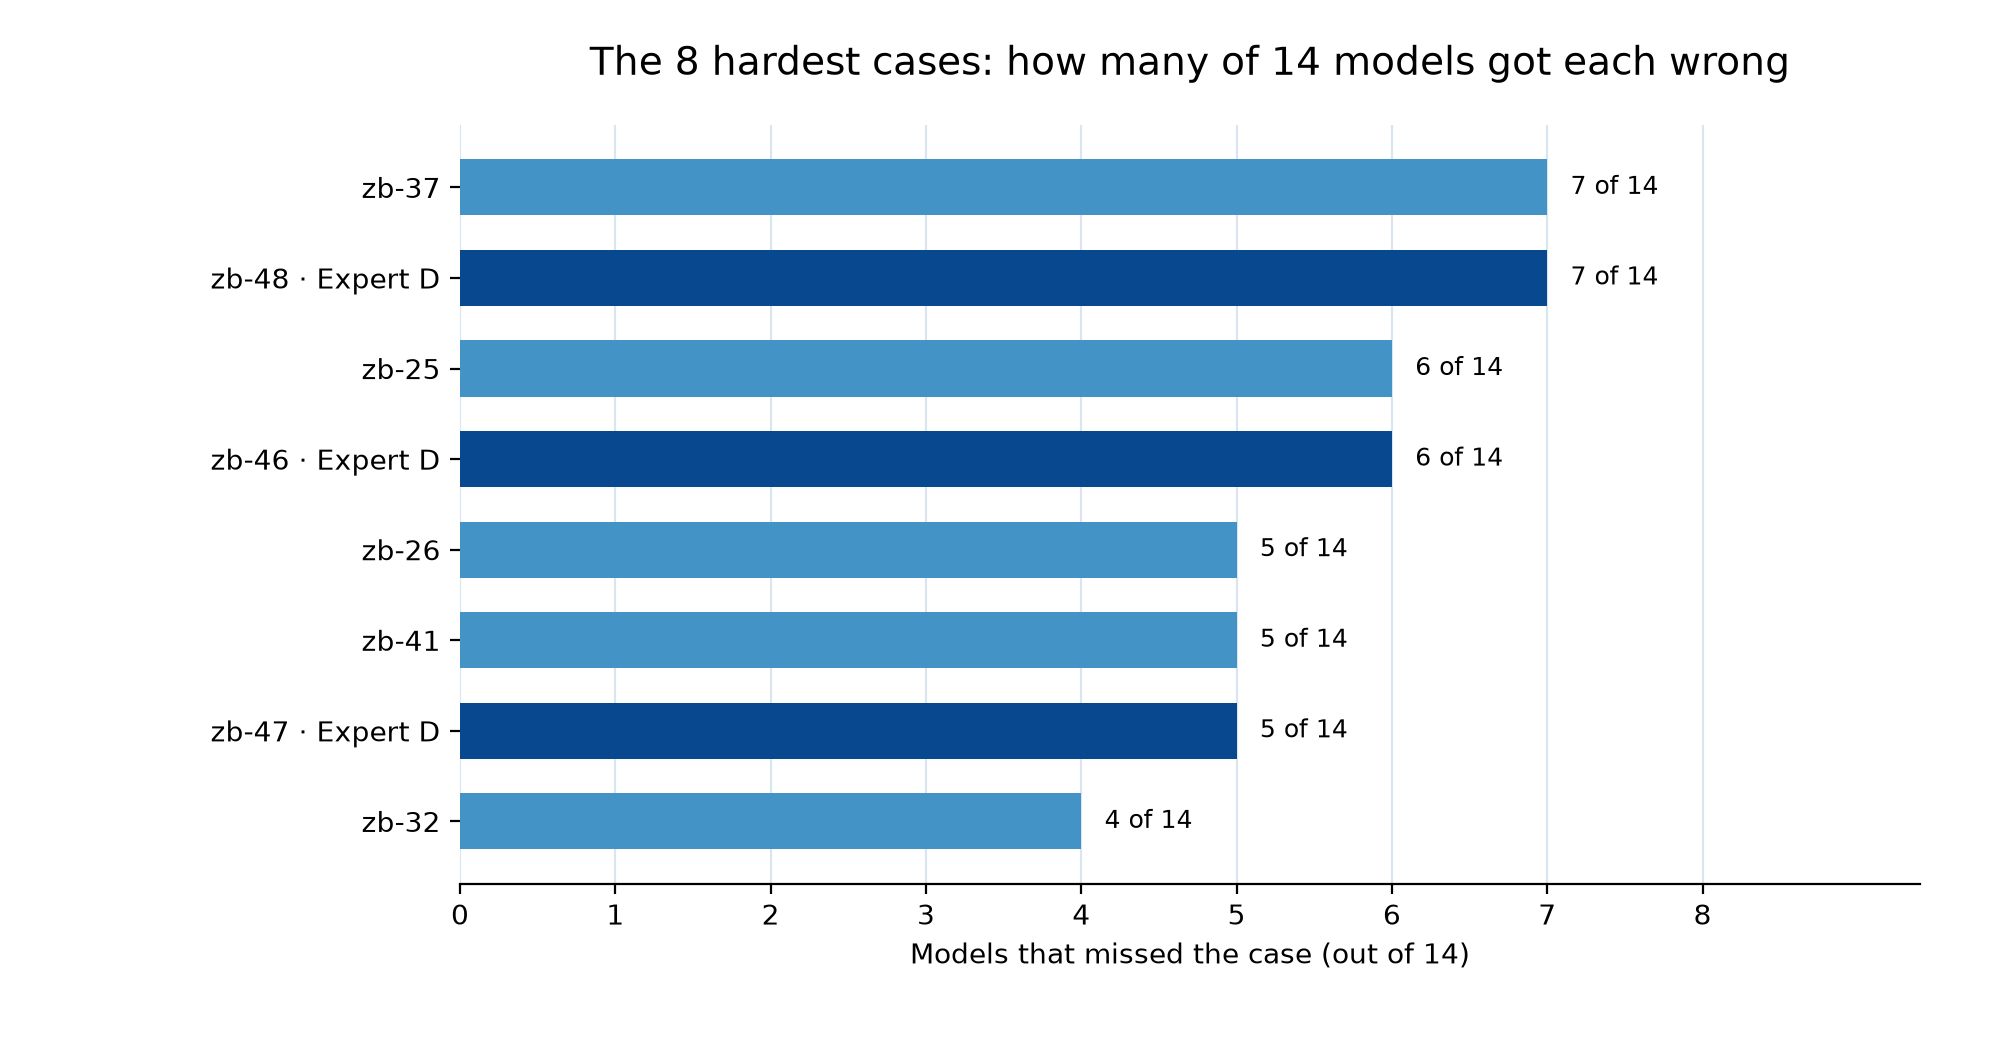
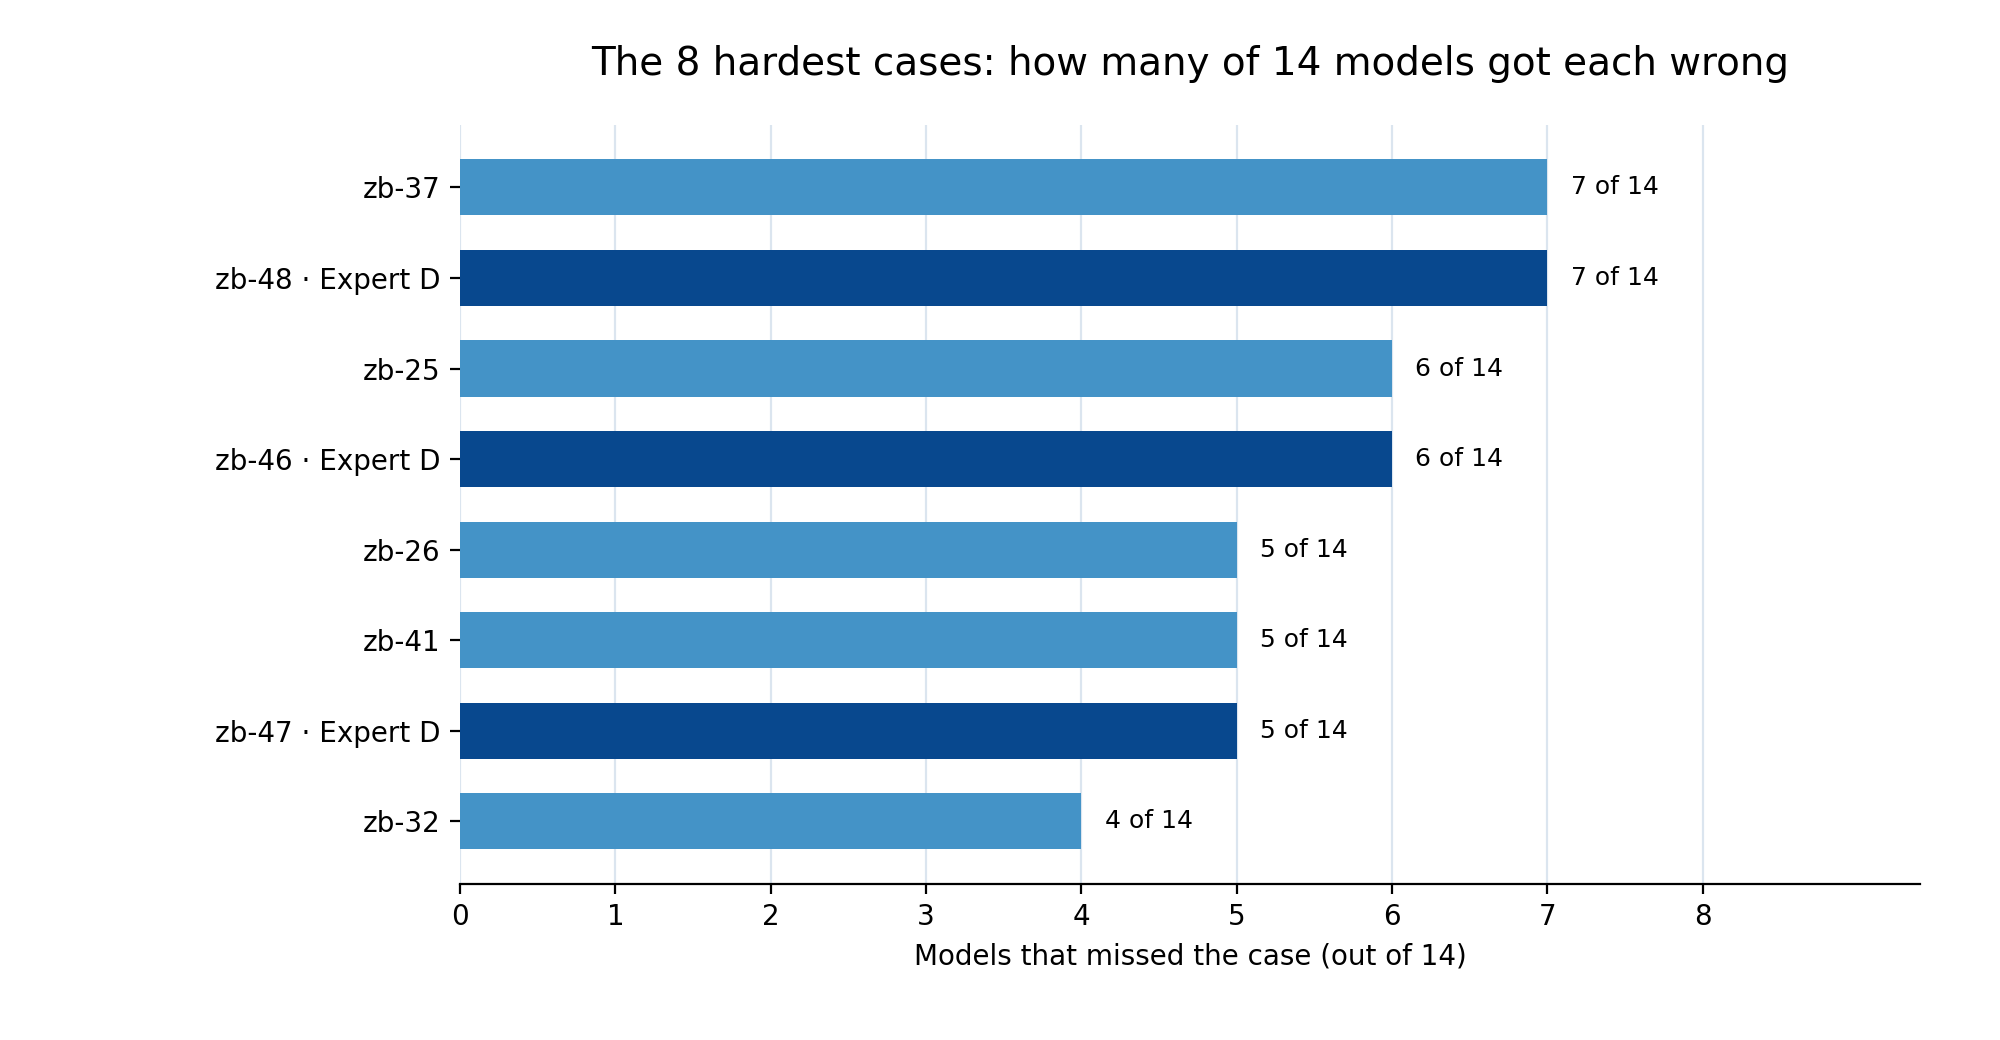
Add verified article cover and validate chart counts

diff --git a/charts/generate_charts.py b/charts/generate_charts.py
@@ -1,5 +1,5 @@
 #!/usr/bin/env python3
-"""Generate the three ZombieBench post charts from saved run results.
+"""Generate the ZombieBench post charts and cover from saved run results.
 
 Requires matplotlib. The script validates the expected run and miss counts
 before writing any images.
@@ -7,6 +7,7 @@ before writing any images.
 
 import json
 import re
+import sys
 from collections import Counter
 from pathlib import Path
 
@@ -18,6 +19,8 @@ import numpy as np
 
 
 ROOT = Path(__file__).resolve().parents[1]
+sys.path.insert(0, str(ROOT))
+from analyze_results import main as analyze_results
 RESULTS = ROOT / "results" / "2026-10-06-kaggle-48-cases.json"
 CASES = ROOT / "cases.json"
 OUT = ROOT / "charts"
@@ -80,6 +83,11 @@ def classify_miss(miss, case_histories):
 
 
 def load_and_validate():
+    summary = analyze_results()
+    if (summary["models"], summary["attempts"], summary["correct"], summary["misses"]) != (14, 672, 592, 80):
+        raise ValueError("analyze_results.py totals differ from the approved counts; stopping.")
+    if summary["miss_types"] != EXPECTED_MISS_TYPES or summary["hardest"] != EXPECTED_HARDEST:
+        raise ValueError("analyze_results.py miss counts differ from the approved counts; stopping.")
     with RESULTS.open(encoding="utf-8") as file:
         results = json.load(file)
     with CASES.open(encoding="utf-8") as file:
@@ -91,6 +99,7 @@ def load_and_validate():
         for case in cases
     }
     runs = [run for run in results["runs"] if run.get("status") == "completed"]
+    runs.sort(key=lambda run: list(MODEL_LABELS).index(run["model"]))
     if len(runs) != 14 or len({run["model"] for run in runs}) != 14:
         raise ValueError(f"Expected 14 distinct completed model runs, found {len(runs)}.")
     if set(MODEL_LABELS) != {run["model"] for run in runs}:
@@ -200,7 +209,7 @@ def make_miss_types(miss_types, total_attempts, total_correct):
     ax.invert_yaxis()
     ax.set_xlim(0, max(values) * 1.22)
     ax.set_xlabel("Number of wrong outputs")
-    ax.set_title("All 80 misses across 14 models: most were false zombies", fontsize=14, pad=34)
+    fig.suptitle("All 80 misses across 14 models: most were false zombies", fontsize=14, y=0.95)
     ax.text(
         0.5, 1.025,
         f"80 misses · {total_attempts:,} attempts · {total_correct:,} correct",
@@ -257,10 +266,22 @@ def main():
     make_heatmap(runs, case_denominators)
     make_miss_types(miss_types, total_attempts, total_correct)
     make_hardest_cases(case_info, missed_cases)
+    make_cover(miss_types, len(all_misses))
     print("Validated: 14 runs, 672 attempts, 592 correct, 80 misses")
     print("Miss categories:", dict(miss_types))
     print("Hardest cases:", sorted(missed_cases.items(), key=lambda item: (-item[1], item[0]))[:8])
-    print("Wrote three 200 dpi PNG charts to charts/.")
+    print("Wrote three 200 dpi PNG charts and a 1000x420 cover to charts/.")
+
+
+def make_cover(miss_types, total_misses):
+    fig = plt.figure(figsize=(5, 2.1), dpi=200, facecolor="white")
+    fig.text(0.07, 0.73, "ZombieBench", fontsize=29, weight="bold", color="#08306b")
+    fig.text(0.07, 0.42,
+             f"{miss_types['False Zombies']} of {total_misses} misses were false zombies:",
+             fontsize=13, weight="bold", color="#08519c")
+    fig.text(0.07, 0.27, "a new bug called an old one", fontsize=14, color="#2171b5")
+    fig.savefig(OUT / "cover.png", dpi=200, facecolor="white")
+    plt.close(fig)
 
 
 if __name__ == "__main__":

diff --git a/analyze_results.py b/analyze_results.py
@@ -145,6 +145,19 @@ def main():
     print(f"  API errors in completed runs: {api_errors}")
     print(f"  Expert D misses: {expert_d_misses}/{expert_d_attempts} attempts")
 
+    hardest = sorted(Counter(miss["case"] for miss in scored_misses).items(),
+                     key=lambda item: (-item[1], item[0]))[:8]
+    print("\nHardest cases:")
+    for case_id, count in hardest:
+        print(f"  {case_id}: {count} of {len(completed)}")
+    return {
+        "models": len(completed), "attempts": attempts, "correct": correct,
+        "misses": len(scored_misses),
+        "miss_types": {"False Zombies": false_zombies, "Missed Zombies": missed_zombies,
+                       "Wrong old bug IDs": wrong_historical_ids, "Unreadable": unreadable},
+        "hardest": hardest,
+    }
+
 
 if __name__ == "__main__":
     try:
